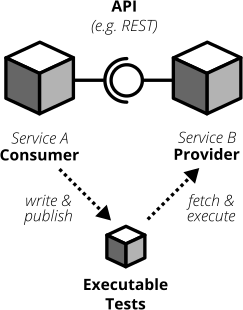
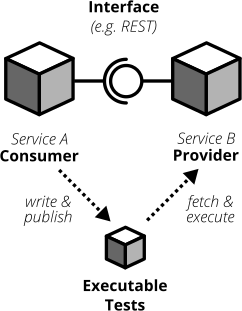
more on cdc tests, add sam newman's book as reference

diff --git a/_drafts/testing_microservices.md b/_drafts/testing_microservices.md
@@ -67,7 +67,7 @@ Stick to the pyramid shape to come up with a healthy, fast and maintainable test
 
 Don't become too attached to the names of the individual layers in Cohn's test pyramid. In fact they can be quite misleading: _service test_ is a term that is hard to capture (Cohn himself talks about the observation that [a lot of developers completely ignore this layer](https://www.mountaingoatsoftware.com/blog/the-forgotten-layer-of-the-test-automation-pyramid)). In the advent of modern single page application frameworks like react, angular, vue and the legions of others it becomes apparent that _UI tests_ don't have to be on the highest level of your pyramid -- you're perfectly able to unit test your UI in all of these frameworks.
 
-Given the shortcomings of the original names it's totally okay to come up with other names for your test layers. Virtually every team I've worked with came up with different names for _service tests_ and _UI tests_ and that's fine as long as you keep it consistent within your codebase and your team's discussions. To make this more clear, I'll suggest names and give examples of the test types I discovered to be helpful when testing microservices.
+Given the shortcomings of the original names it's totally okay to come up with other names for your test layers, as long as you keep it consistent within your codebase and your team's discussions.
 
 ## Types of Tests
 While the test pyramid suggests that you'll have three different types of tests (_unit tests_, _service tests_ and _UI tests_) I need to disappoint you. Your reality will look a little more diverse. Lets keep Cohn's test pyramid in mind for its good things (use test layers with different granularity, make sure they're differently sized) and find out what types of tests we need for an effective test suite.
@@ -148,7 +148,7 @@ With traditional web applications testing the user interface can be achieved wit
 
 With web interfaces there's multiple aspects that you probably want to test: UI behaviour, layout, usability or adherence to your corporate design are only a few. 
 
-Fortunally, testing the behaviour of your user interface is pretty simple. You click here, enter data there and want the state of the user interface to change accordingly. Modern single page application frameworks (like react, vue.js and angular) often come with their own tools and helpers that allow you to thorougly test these interactions in a pretty low-level (unit test) fashion. With a more traditional, server-side rendered application, Selenium-based tests will be your best choice.
+Fortunally, testing the behaviour of your user interface is pretty simple. You click here, enter data there and want the state of the user interface to change accordingly. Modern single page application frameworks (like react, vue.js and angular) often come with their own tools and helpers that allow you to thorougly test these interactions in a pretty low-level (unit test) fashion. Even if you roll your own frontend implementation using vanilla javascript you can use your regular testing tools like [Jasmine](https://jasmine.github.io/) or [Mocha](http://mochajs.org/). With a more traditional, server-side rendered application, Selenium-based tests will be your best choice.
 
 Testing that your web application's layout remains intact is a little harder. Depending on your application and your users' needs you may want to make sure that code changes don't break the websites layout by accident. Nowadays you even need to check your layout on different form factors for responsive designs. The problem is that computers are notoriously bad at checking what "looks good". There's some tools you could try if you want to automatically check your web application's design in your build pipeline. Most of these tools utilize Selenium to open your web application in different browsers and formats, take screenshots and compare these to previously taken screenshots. If the old and new screenshots differ in an unexpected way, the tool will let you know. [Galen](http://galenframework.com/) is one of these tools. But Rolling your own solution isn't too hard, if you have special requirements. Some teams I've worked with build [lineup](https://github.com/otto-de/lineup) and its Java-based cousin [jlineup](https://github.com/otto-de/jlineup) to achieve something similar. Both tools take the same Selenium-based approach I described before.
 
@@ -171,17 +171,19 @@ One of the big benefits of a microservice architecture is that it allows your or
 Splitting your system into many small pieces often means that these pieces need to communicate with each other via certain (hopefully well-defined, sometimes accidentally grown) interfaces. Interfaces between microservices can come in different shapes and technologies. Common ones are REST and JSON via HTTPS, <abbr title="remote procedure calls">RPC</abbr> using something like [gRPC](https://grpc.io/) or even building an event-driven architecture using queues. For each interface there are two parties involved: the **provider** and the **consumer**. The provider serves data. The consumer processes data obtained from providers. In a REST world a provider builds a REST API with all required endpoints; a consumer makes calls to this REST API to fetch data or trigger changes in the other service. In an asynchronous, event-driven world, a provider (often rather called **publisher**) publishes data to a queue; a consumer (often called **subscriber**) subscribes to these queues and reads and processes data.
 
 ![contract tests](/assets/img/uploads/contract_tests.png)
-_each interface has a providing (or publishing) and a consuming (or subscribing) party_
+_each interface has a providing (or publishing) and a consuming (or subscribing) party. The specification of an interface can be considered a contract._
 
-As you often spread the consuming and providing services across different teams you find yourself in the situation of having to clearly specify the individual interfaces. Traditionally companies have approached this problem in the following way:
+As you often spread the consuming and providing services across different teams you find yourself in the situation of having to clearly specify the interfaces between these services (the so called **contract**).Traditionally companies have approached this problem in the following way:
 
-  1. write a long and detailed interface definition
+  1. write a long and detailed interface definition (the contract)
   2. implement the providing service accordingly
   3. throw the interface definition over the fence to the consuming team
   4. run some large-scale manual system test to see if everything works
   5. hope that both teams stick to the interface definition forever 
 
-In a more agile organisation you should take the more efficient and less wasteful route. All your microservices live within the same organisation. It shouldn't be too hard to talk to the developers of the other services directly. After all they're your co-workers and not a third-party vendor that you could only talk to via customer service or legally bulletproof contracts.
+At the very least you should replace steps 4 and 5 with something more automated: Write automated tests that make sure the implemented interface still follows the defined contract.
+
+In a more agile organisation you should take the more efficient and less wasteful route. All your microservices live within the same organisation. It shouldn't be too hard to talk to the developers of the other services directly instead of throwing overly detailed documentation over the fence. After all they're your co-workers and not a third-party vendor that you could only talk to via customer service or legally bulletproof contracts.
 
 **Consumer-Driven Contract tests** (**CDC tests**) let the consumers drive the implementation of the contract tests. Consumers of an interface write tests that check the API for all data they need to work correctly with that API. For a REST API this could be a test that hits all required endpoints via HTTPS and checks the responses for correct HTTP headers and asserts that all required fields in a JSON body are present. The consuming team then publishes this set of tests so that the team providing the interface can fetch and execute these tests easily (executable packages like .jar files, gems, npm packages or even .deb or .rpm packages are a good idea). The providing team can now develop their API by running the CDC tests. Once they all pass they know they have implemented everything the consuming team needs.
 
@@ -200,11 +202,12 @@ The Consumer-Driven Contract approach would leave you with a process looking lik
 
 If your organisation moves to microservices, having CDC tests in place is a big step towards establishing autonomous teams. CDC tests are an automated way to foster team communication. They ensure that interfaces between teams are working at any time. Failing CDC tests are a good indicator that you should walk over to the affected team and have a chat about any upcoming API changes and figure out how you want to move forward.
 
-### Favor CDC tests over end-to-end tests
-**TODO**
+Implementing CDC tests can in the simplest case be as simple as writing automated tests 
+
+#### Favor CDC tests over end-to-end tests
 E2E tests are often flaky, hard to maintain and hard to debug. CDC tests, if done thoroughly can give you the same confidence without all the hassle.
 
-### Do Your Features Work Correctly?
+### Acceptance Tests: Do Your Features Work Correctly?
 The higher you move up in your test pyramid the more you enter the realms of testing whether the features you're building work correctly from a users perspective. With high-level end-to-end tests you can treat your application as a black box. The focus in your tests shifts from 
 
     when I enter the values x and y, the return value should be z 
@@ -239,10 +242,11 @@ As with production code you should strive for simplicity and avoid duplication. 
 
 ## Further reading
 
-[Testing Microservices](https://martinfowler.com/articles/microservice-testing)
+* [Testing Microservices](https://martinfowler.com/articles/microservice-testing)
 * TDD by example - Kent Beck
 * Continuous Delivery - Jez Humble, Dave Farley
 * [Working Effectively with Unit Tests](https://leanpub.com/wewut)
+* Building Microservices - Sam Newman (read a [sample chapter about testing microservices](https://opds.oreilly.com/learning/building-microservices-testing)
 
 **TODO**
 
